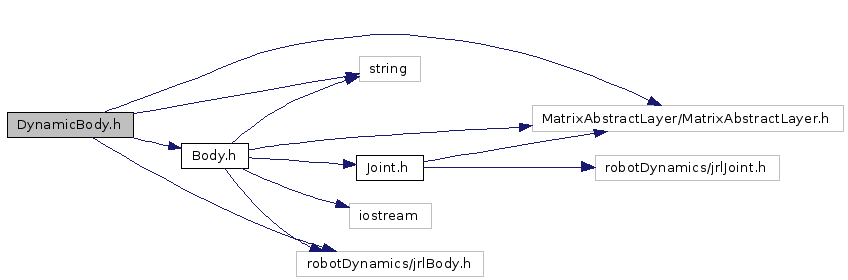
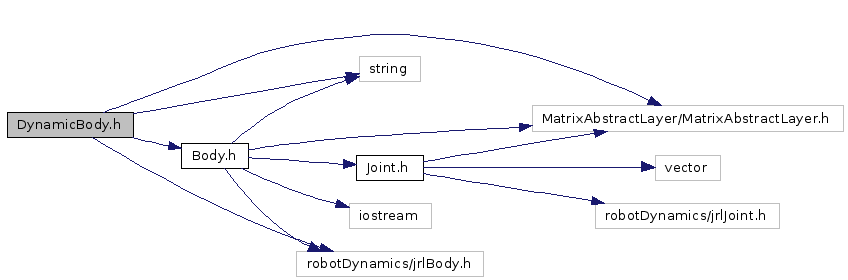
OS: Homogeneous naming: suppressed the jrlCIR prefix to have dynamicsJRLJapan

diff --git a/doc/html/classjrl_c_i_rdynamics_j_r_l_japan_1_1_humanoid_specificities.html b/doc/html/classjrl_c_i_rdynamics_j_r_l_japan_1_1_humanoid_specificities.html
@@ -73,6 +73,10 @@
 
 <tr><td class="memItemLeft" nowrap align="right" valign="top">const std::vector&lt; int &gt; &amp;&nbsp;</td><td class="memItemRight" valign="bottom"><a class="el" href="classjrl_c_i_rdynamics_j_r_l_japan_1_1_humanoid_specificities.html#a82da9984d86111a6ee9877d5ae0d38f">GetUpperBodyJoints</a> ()</td></tr>
 
+<tr><td class="memItemLeft" nowrap align="right" valign="top">int&nbsp;</td><td class="memItemRight" valign="bottom"><a class="el" href="classjrl_c_i_rdynamics_j_r_l_japan_1_1_humanoid_specificities.html#216081d11c3e1ce7257c1ce5ff98d640">GetWaistJointNb</a> ()</td></tr>
+
+<tr><td class="memItemLeft" nowrap align="right" valign="top">const std::vector&lt; int &gt; &amp;&nbsp;</td><td class="memItemRight" valign="bottom"><a class="el" href="classjrl_c_i_rdynamics_j_r_l_japan_1_1_humanoid_specificities.html#850676c46e9a6f808902c7076ed655f5">GetWaistJoints</a> ()</td></tr>
+
 <tr><td colspan="2"><br><h2>Private Member Functions</h2></td></tr>
 <tr><td class="memItemLeft" nowrap align="right" valign="top">int&nbsp;</td><td class="memItemRight" valign="bottom"><a class="el" href="classjrl_c_i_rdynamics_j_r_l_japan_1_1_humanoid_specificities.html#d0346aca947ef53a1d5663fb0bea6242">InitUpperBodyJoints</a> ()</td></tr>
 
@@ -659,6 +663,44 @@
       <table class="memname">
         <tr>
           <td class="memname">const std::vector&lt;int&gt;&amp; jrlCIRdynamicsJRLJapan::HumanoidSpecificities::GetUpperBodyJoints           </td>
+          <td>(</td>
+          <td class="paramname">          </td>
+          <td>&nbsp;)&nbsp;</td>
+          <td width="100%"></td>
+        </tr>
+      </table>
+</div>
+<div class="memdoc">
+
+<p>
+
+</div>
+</div><p>
+<a class="anchor" name="216081d11c3e1ce7257c1ce5ff98d640"></a><!-- doxytag: member="jrlCIRdynamicsJRLJapan::HumanoidSpecificities::GetWaistJointNb" ref="216081d11c3e1ce7257c1ce5ff98d640" args="()" -->
+<div class="memitem">
+<div class="memproto">
+      <table class="memname">
+        <tr>
+          <td class="memname">int jrlCIRdynamicsJRLJapan::HumanoidSpecificities::GetWaistJointNb           </td>
+          <td>(</td>
+          <td class="paramname">          </td>
+          <td>&nbsp;)&nbsp;</td>
+          <td width="100%"></td>
+        </tr>
+      </table>
+</div>
+<div class="memdoc">
+
+<p>
+
+</div>
+</div><p>
+<a class="anchor" name="850676c46e9a6f808902c7076ed655f5"></a><!-- doxytag: member="jrlCIRdynamicsJRLJapan::HumanoidSpecificities::GetWaistJoints" ref="850676c46e9a6f808902c7076ed655f5" args="()" -->
+<div class="memitem">
+<div class="memproto">
+      <table class="memname">
+        <tr>
+          <td class="memname">const std::vector&lt;int&gt;&amp; jrlCIRdynamicsJRLJapan::HumanoidSpecificities::GetWaistJoints           </td>
           <td>(</td>
           <td class="paramname">          </td>
           <td>&nbsp;)&nbsp;</td>

diff --git a/doc/html/classjrl_c_i_rdynamics_j_r_l_japan_1_1_humanoid_specificities-members.html b/doc/html/classjrl_c_i_rdynamics_j_r_l_japan_1_1_humanoid_specificities-members.html
@@ -40,6 +40,8 @@
   <tr class="memlist"><td><a class="el" href="classjrl_c_i_rdynamics_j_r_l_japan_1_1_humanoid_specificities.html#b54aadbe4e413bb4f4641e5489b14402">GetUpperArmLength</a>(int WhichSide)</td><td><a class="el" href="classjrl_c_i_rdynamics_j_r_l_japan_1_1_humanoid_specificities.html">jrlCIRdynamicsJRLJapan::HumanoidSpecificities</a></td><td></td></tr>
   <tr class="memlist"><td><a class="el" href="classjrl_c_i_rdynamics_j_r_l_japan_1_1_humanoid_specificities.html#7687ca03c9eaab01a3fac8f49991e924">GetUpperBodyJointNb</a>()</td><td><a class="el" href="classjrl_c_i_rdynamics_j_r_l_japan_1_1_humanoid_specificities.html">jrlCIRdynamicsJRLJapan::HumanoidSpecificities</a></td><td></td></tr>
   <tr class="memlist"><td><a class="el" href="classjrl_c_i_rdynamics_j_r_l_japan_1_1_humanoid_specificities.html#a82da9984d86111a6ee9877d5ae0d38f">GetUpperBodyJoints</a>()</td><td><a class="el" href="classjrl_c_i_rdynamics_j_r_l_japan_1_1_humanoid_specificities.html">jrlCIRdynamicsJRLJapan::HumanoidSpecificities</a></td><td></td></tr>
+  <tr class="memlist"><td><a class="el" href="classjrl_c_i_rdynamics_j_r_l_japan_1_1_humanoid_specificities.html#216081d11c3e1ce7257c1ce5ff98d640">GetWaistJointNb</a>()</td><td><a class="el" href="classjrl_c_i_rdynamics_j_r_l_japan_1_1_humanoid_specificities.html">jrlCIRdynamicsJRLJapan::HumanoidSpecificities</a></td><td></td></tr>
+  <tr class="memlist"><td><a class="el" href="classjrl_c_i_rdynamics_j_r_l_japan_1_1_humanoid_specificities.html#850676c46e9a6f808902c7076ed655f5">GetWaistJoints</a>()</td><td><a class="el" href="classjrl_c_i_rdynamics_j_r_l_japan_1_1_humanoid_specificities.html">jrlCIRdynamicsJRLJapan::HumanoidSpecificities</a></td><td></td></tr>
   <tr class="memlist"><td><a class="el" href="classjrl_c_i_rdynamics_j_r_l_japan_1_1_humanoid_specificities.html#e8db68ae3e3c96c830b0341ffa18bab7">GetWaistToHip</a>(int WhichSide, double WaistToHip[3])</td><td><a class="el" href="classjrl_c_i_rdynamics_j_r_l_japan_1_1_humanoid_specificities.html">jrlCIRdynamicsJRLJapan::HumanoidSpecificities</a></td><td></td></tr>
   <tr class="memlist"><td><a class="el" href="classjrl_c_i_rdynamics_j_r_l_japan_1_1_humanoid_specificities.html#5216f4890355e41049b5a9610aa7bed9">HumanoidSpecificities</a>()</td><td><a class="el" href="classjrl_c_i_rdynamics_j_r_l_japan_1_1_humanoid_specificities.html">jrlCIRdynamicsJRLJapan::HumanoidSpecificities</a></td><td></td></tr>
   <tr class="memlist"><td><a class="el" href="classjrl_c_i_rdynamics_j_r_l_japan_1_1_humanoid_specificities.html#d0346aca947ef53a1d5663fb0bea6242">InitUpperBodyJoints</a>()</td><td><a class="el" href="classjrl_c_i_rdynamics_j_r_l_japan_1_1_humanoid_specificities.html">jrlCIRdynamicsJRLJapan::HumanoidSpecificities</a></td><td><code> [private]</code></td></tr>

diff --git a/doc/html/functions_func_0x67.html b/doc/html/functions_func_0x67.html
@@ -111,12 +111,11 @@
 <li>getMasse()
 : <a class="el" href="classjrl_c_i_rdynamics_j_r_l_japan_1_1_body.html#0c3c6467f25e2735dd5289a3a25524c4">jrlCIRdynamicsJRLJapan::Body</a>
 , <a class="el" href="classjrl_c_i_rdynamics_j_r_l_japan_1_1_multi_body.html#677a36953bcc2b46fa4d9b4b11af48e9">jrlCIRdynamicsJRLJapan::MultiBody</a>
-<li>getName()
-: <a class="el" href="classjrl_c_i_rdynamics_j_r_l_japan_1_1_joint.html#5177da6f5d3d6b16aa5542ba07740a9a">jrlCIRdynamicsJRLJapan::Joint</a>
 <li>GetName()
 : <a class="el" href="classjrl_c_i_rdynamics_j_r_l_japan_1_1_dynamic_multi_body.html#0674cc9afa39a425ec4f983403e4d72a">jrlCIRdynamicsJRLJapan::DynamicMultiBody</a>
 <li>getName()
-: <a class="el" href="classjrl_c_i_rdynamics_j_r_l_japan_1_1_body.html#f56912cbdd62027736cdd5a566b1023f">jrlCIRdynamicsJRLJapan::Body</a>
+: <a class="el" href="classjrl_c_i_rdynamics_j_r_l_japan_1_1_joint.html#5177da6f5d3d6b16aa5542ba07740a9a">jrlCIRdynamicsJRLJapan::Joint</a>
+, <a class="el" href="classjrl_c_i_rdynamics_j_r_l_japan_1_1_body.html#f56912cbdd62027736cdd5a566b1023f">jrlCIRdynamicsJRLJapan::Body</a>
 <li>getNbObjets()
 : <a class="el" href="classjrl_c_i_rdynamics_j_r_l_japan_1_1_body.html#e9d6d3565174ab0849644e2be17e01aa">jrlCIRdynamicsJRLJapan::Body</a>
 <li>GetPandL()
@@ -135,6 +134,10 @@
 : <a class="el" href="classjrl_c_i_rdynamics_j_r_l_japan_1_1_humanoid_specificities.html#7687ca03c9eaab01a3fac8f49991e924">jrlCIRdynamicsJRLJapan::HumanoidSpecificities</a>
 <li>GetUpperBodyJoints()
 : <a class="el" href="classjrl_c_i_rdynamics_j_r_l_japan_1_1_humanoid_specificities.html#a82da9984d86111a6ee9877d5ae0d38f">jrlCIRdynamicsJRLJapan::HumanoidSpecificities</a>
+<li>GetWaistJointNb()
+: <a class="el" href="classjrl_c_i_rdynamics_j_r_l_japan_1_1_humanoid_specificities.html#216081d11c3e1ce7257c1ce5ff98d640">jrlCIRdynamicsJRLJapan::HumanoidSpecificities</a>
+<li>GetWaistJoints()
+: <a class="el" href="classjrl_c_i_rdynamics_j_r_l_japan_1_1_humanoid_specificities.html#850676c46e9a6f808902c7076ed655f5">jrlCIRdynamicsJRLJapan::HumanoidSpecificities</a>
 <li>GetWaistToHip()
 : <a class="el" href="classjrl_c_i_rdynamics_j_r_l_japan_1_1_humanoid_specificities.html#e8db68ae3e3c96c830b0341ffa18bab7">jrlCIRdynamicsJRLJapan::HumanoidSpecificities</a>
 </ul>

diff --git a/doc/html/functions_0x67.html b/doc/html/functions_0x67.html
@@ -136,6 +136,10 @@ Here is a list of all class members with links to the classes they belong to:
 : <a class="el" href="classjrl_c_i_rdynamics_j_r_l_japan_1_1_humanoid_specificities.html#7687ca03c9eaab01a3fac8f49991e924">jrlCIRdynamicsJRLJapan::HumanoidSpecificities</a>
 <li>GetUpperBodyJoints()
 : <a class="el" href="classjrl_c_i_rdynamics_j_r_l_japan_1_1_humanoid_specificities.html#a82da9984d86111a6ee9877d5ae0d38f">jrlCIRdynamicsJRLJapan::HumanoidSpecificities</a>
+<li>GetWaistJointNb()
+: <a class="el" href="classjrl_c_i_rdynamics_j_r_l_japan_1_1_humanoid_specificities.html#216081d11c3e1ce7257c1ce5ff98d640">jrlCIRdynamicsJRLJapan::HumanoidSpecificities</a>
+<li>GetWaistJoints()
+: <a class="el" href="classjrl_c_i_rdynamics_j_r_l_japan_1_1_humanoid_specificities.html#850676c46e9a6f808902c7076ed655f5">jrlCIRdynamicsJRLJapan::HumanoidSpecificities</a>
 <li>GetWaistToHip()
 : <a class="el" href="classjrl_c_i_rdynamics_j_r_l_japan_1_1_humanoid_specificities.html#e8db68ae3e3c96c830b0341ffa18bab7">jrlCIRdynamicsJRLJapan::HumanoidSpecificities</a>
 <li>gr

diff --git a/doc/html/_dynamic_multi_body_8h.html b/doc/html/_dynamic_multi_body_8h.html
@@ -24,9 +24,9 @@
 <p>
 Include dependency graph for DynamicMultiBody.h:<p><center><img src="_dynamic_multi_body_8h__incl.png" border="0" usemap="#DynamicMultiBody.h_map" alt=""></center>
 <map name="DynamicMultiBody.h_map">
-<area href="_joint_8h.html" shape="rect" coords="545,179,612,203" alt="">
-<area href="_multi_body_8h.html" shape="rect" coords="291,155,389,179" alt="">
-<area href="_dynamic_body_8h.html" shape="rect" coords="516,240,641,264" alt="">
+<area href="_joint_8h.html" shape="rect" coords="545,161,612,185" alt="">
+<area href="_multi_body_8h.html" shape="rect" coords="291,88,389,112" alt="">
+<area href="_dynamic_body_8h.html" shape="rect" coords="516,236,641,260" alt="">
 </map>
 
 <p>

diff --git a/doc/html/_multi_body_8h.html b/doc/html/_multi_body_8h.html
@@ -24,9 +24,9 @@
 <p>
 Include dependency graph for MultiBody.h:<p><center><img src="_multi_body_8h__incl.png" border="0" usemap="#MultiBody.h_map" alt=""></center>
 <map name="MultiBody.h_map">
-<area href="_joint_8h.html" shape="rect" coords="367,5,434,29" alt="">
-<area href="_body_8h.html" shape="rect" coords="174,101,240,125" alt="">
-<area href="file_reader_8h.html" shape="rect" coords="156,251,258,275" alt="">
+<area href="_joint_8h.html" shape="rect" coords="367,67,434,91" alt="">
+<area href="_body_8h.html" shape="rect" coords="174,160,240,184" alt="">
+<area href="file_reader_8h.html" shape="rect" coords="156,310,258,334" alt="">
 </map>
 
 <p>

diff --git a/unitTesting/TestHumanoidDynamicRobot.cpp b/unitTesting/TestHumanoidDynamicRobot.cpp
@@ -1,7 +1,7 @@
 #include <string>
 
-#include <jrlCIRdynamicsJRLJapan/Joint.h>
-#include <jrlCIRdynamicsJRLJapan/HumanoidDynamicMultiBody.h>
+#include <dynamicsJRLJapan/Joint.h>
+#include <dynamicsJRLJapan/HumanoidDynamicMultiBody.h>
 
 using namespace std;
 using namespace jrlCIRdynamicsJRLJapan;
